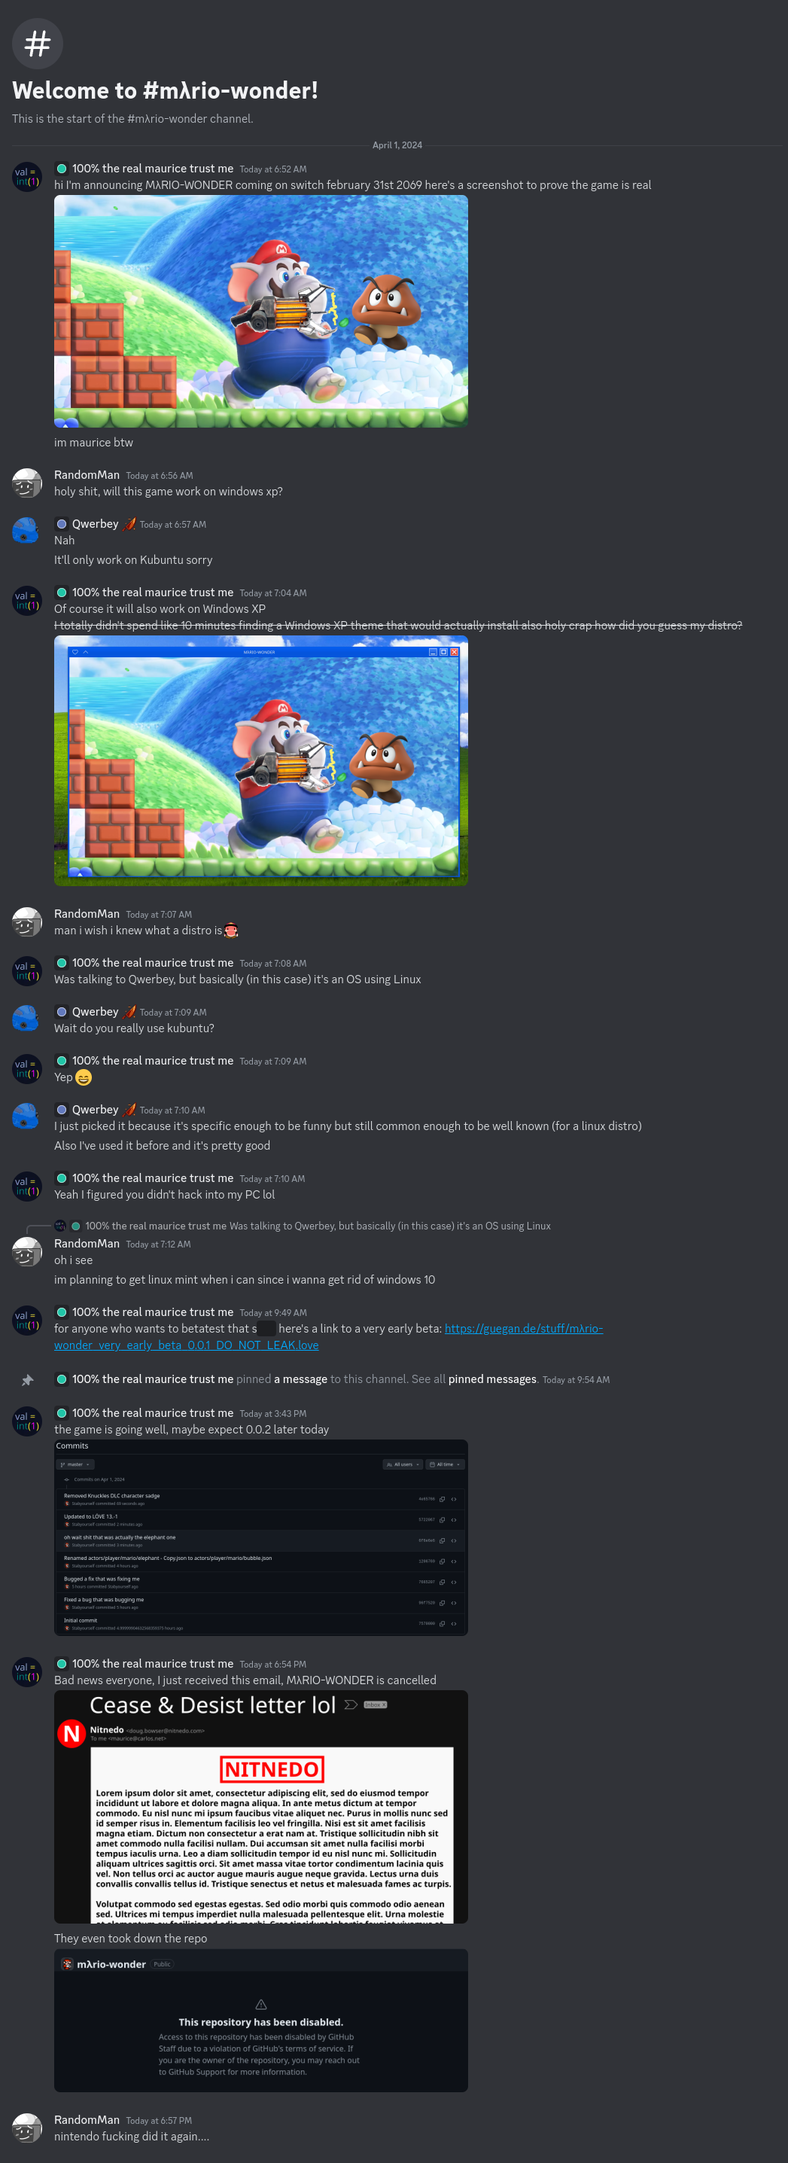
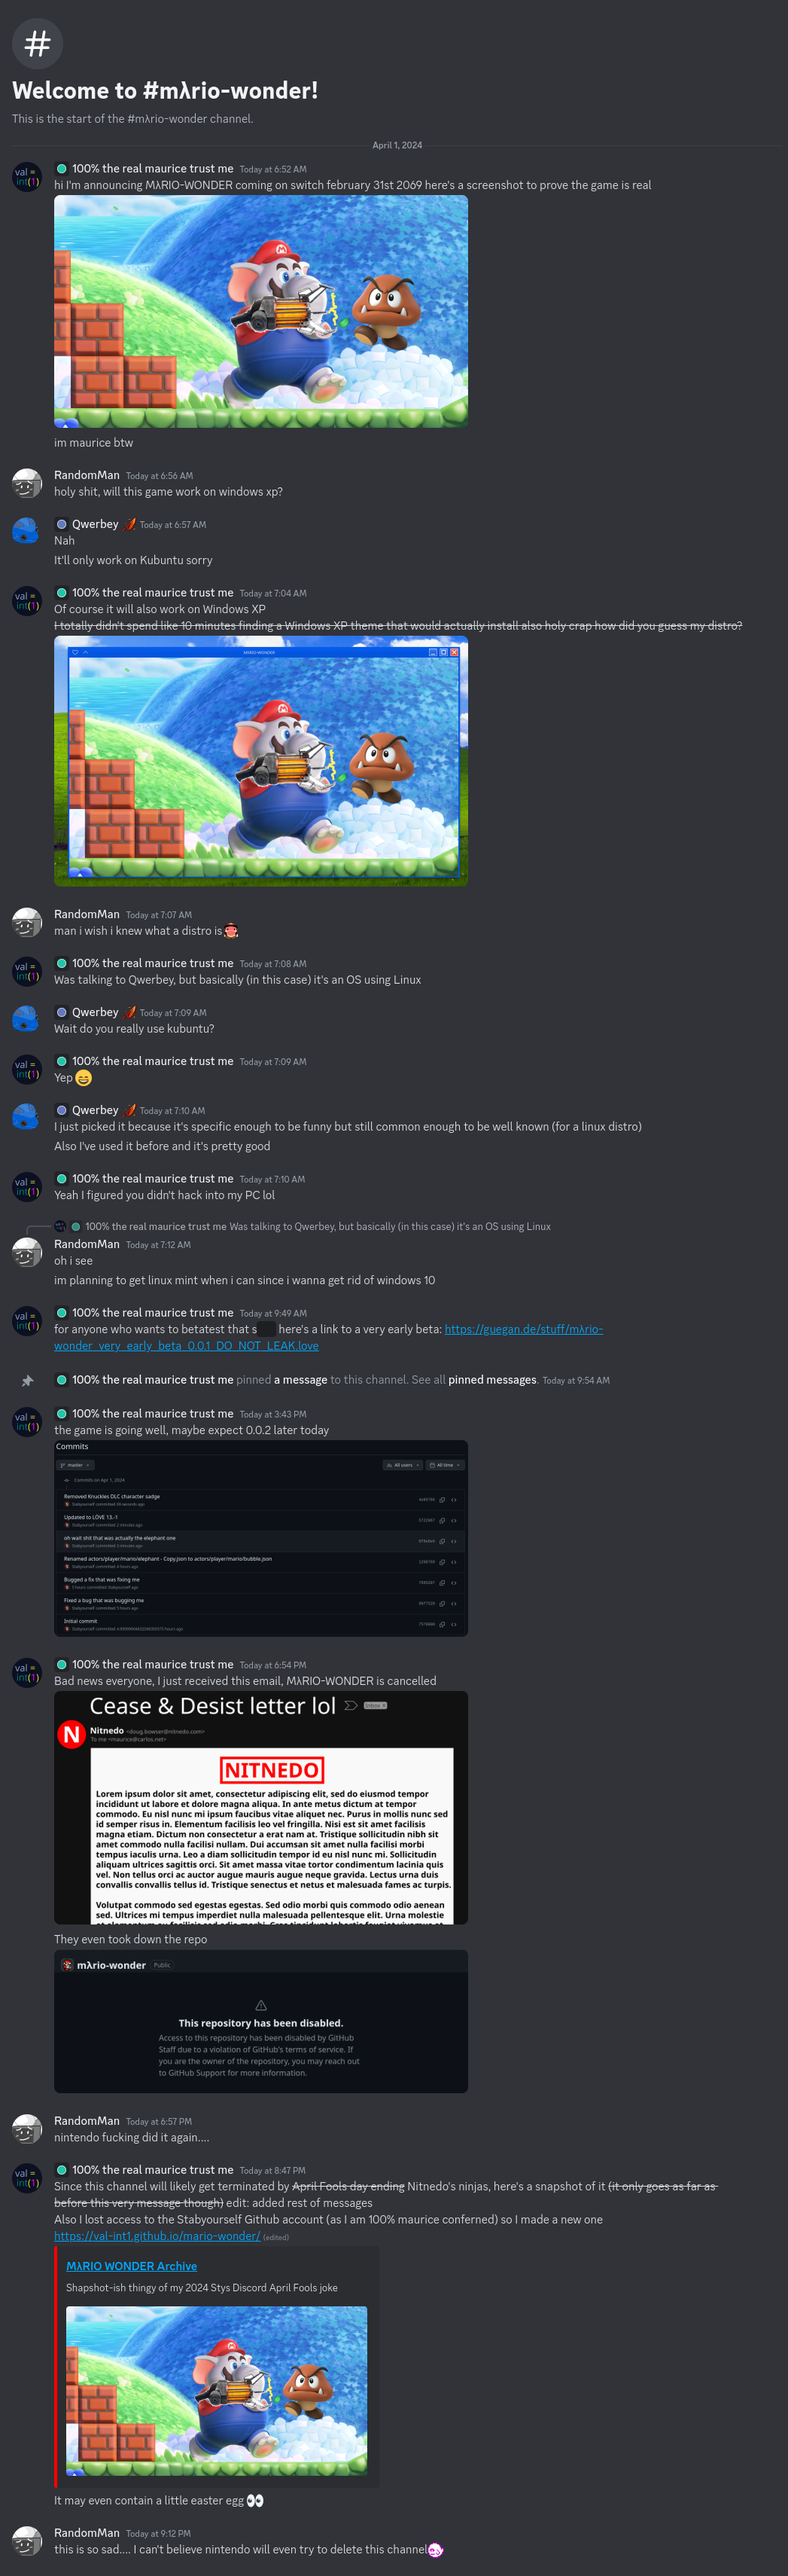
Added new messages

diff --git a/index.html b/index.html
@@ -4,11 +4,11 @@
 		<style>
 			html, body { margin: 0; }
 			body { background-color: #313338; }
-			div#wrapper { position: relative; width: fit-content; margin: 0 auto; }
+			div.wrapper { position: relative; width: fit-content; margin: 0 auto; }
 			img.add, span.linkbox { position: absolute; }
-			img#spoiler { left: 341px; top: 1754px; cursor: pointer; }
-			img#crabs { left: 340px; top: 146px; }
-			img#crabs.pointer { cursor: pointer; }
+			img.spoiler { left: 341px; top: 1754px; cursor: pointer; }
+			img.crabs { left: 340px; top: 146px; }
+			img.crabs.pointer, span.recursivelinkwow { cursor: pointer; }
 			span.attachment { left: 72px; width: 550px; }
 			.hidden { opacity: 0; }
 		</style>
@@ -20,13 +20,15 @@
 		<meta content="https://val-int1.github.io/mario-wonder/imgs/attachments/very_legit_screenshot.png" property="og:image" />
 		<meta name="twitter:card" content="summary_large_image">
 		<meta content="#FF0000" data-react-helmet="true" name="theme-color" />
+
+		<script src="script.js" defer></script>
 	</head>
 	<body>
-		<div id="wrapper">
+		<div class="wrapper">
 			<img id="base" src="imgs/base.png"></img>
 
-			<img class="add hidden" id="spoiler" src="imgs/spoiler.png"></img>
-			<img class="add hidden" id="crabs" src="imgs/crabs.png"></img>
+			<img class="add hidden spoiler" src="imgs/spoiler.png"></img>
+			<img class="add hidden crabs" src="imgs/crabs.png"></img>
 
 			<a href="mλrio-wonder_very_early_beta_0.0.1_DO_NOT_LEAK.love" target="_blank">
 				<span class="linkbox" style="left: 590px; top: 1757px; width: 213px; height: 17px;"></span>
@@ -35,6 +37,7 @@
 
 			<a href="imgs/attachments/very_legit_screenshot.png" target="_blank">
 				<span class="linkbox attachment" style="top: 259px; height: 309px;"></span>
+				<span class="linkbox" style="left: 88px; top: 3062px; width: 400px; height: 225px;"></span>
 			</a>
 
 			<a href="imgs/attachments/works_on_xp.png" target="_blank">
@@ -52,33 +55,9 @@
 			<a href="imgs/attachments/xz_repo_be_like.png" target="_blank">
 				<span class="linkbox attachment" style="top: 2588px; height: 191px;"></span>
 			</a>
+
+			<span class="linkbox recursivelinkwow" style="left: 71px; top: 2961px; width: 277px; height: 17px;"></span>
+			<span class="linkbox recursivelinkwow" style="left: 177px; top: 3001px; width: 177px; height: 16px;"></span>
 		</div>
-		<script>
-			function superSecretPasscode(e) {
-				if(e.key == passcode.substring(passcodeI, passcodeI + 1)) {
-					passcodeI ++;
-					if(passcodeI == passcode.length) {
-						crabs.classList.remove("hidden")
-						crabs.classList.add("pointer")
-						crabs.addEventListener("click", itsRavingTime)
-						document.body.removeEventListener("keydown", superSecretPasscode)
-					}
-				}
-			}
-
-			function itsRavingTime(e) { // and then they raved all over the place
-				window.open("https://www.youtube.com/watch?v=LDU_Txk06tM")
-				crabs.classList.remove("pointer")
-				crabs.removeEventListener("click", itsRavingTime)
-			}
-
-			const spoiler = document.getElementById("spoiler")
-			spoiler.addEventListener("click", () => { spoiler.classList.toggle("hidden") })
-
-			const crabs = document.getElementById("crabs")
-			const passcode = "ravetime"
-			let passcodeI = 0
-			document.body.addEventListener("keydown", superSecretPasscode)
-		</script>
 	</body>
 </html>

diff --git a/script.js b/script.js
@@ -1,0 +1,44 @@
+function superSecretPasscode(e) {
+	if(e.key == passcode.substring(passcodeI, passcodeI + 1)) {
+		passcodeI ++;
+		if(passcodeI == passcode.length) {
+			for(const crabs of document.getElementsByClassName("crabs")) {
+				crabs.classList.remove("hidden")
+				crabs.classList.add("pointer")
+				crabs.addEventListener("click", itsRavingTime)
+			}
+			document.body.removeEventListener("keydown", superSecretPasscode)
+		}
+	}
+}
+
+function itsRavingTime(e) { // and then they raved all over the place
+	window.open("https://www.youtube.com/watch?v=LDU_Txk06tM")
+	for(const crabs of document.getElementsByClassName("crabs")) {
+		crabs.classList.remove("pointer")
+		crabs.removeEventListener("click", itsRavingTime)
+	}
+}
+
+const wrapper = document.getElementsByClassName("wrapper")[0]
+const passcode = "ravetime"
+let passcodeI = 0
+
+function init(rootElem) {
+	const spoiler = rootElem.getElementsByClassName("spoiler")[0]
+	spoiler.addEventListener("click", () => { spoiler.classList.toggle("hidden") })
+
+	for(const recursivelinkwow of rootElem.getElementsByClassName("recursivelinkwow")) {
+		recursivelinkwow.addEventListener("click", () => {
+			let newWrapper = document.createElement("div")
+			newWrapper.classList.add("wrapper")
+			newWrapper.innerHTML = wrapper.innerHTML
+			init(newWrapper)
+			document.body.appendChild(newWrapper)
+			newWrapper.scrollIntoView({ behavior: "smooth" })
+		})
+	}
+}
+
+document.body.addEventListener("keydown", superSecretPasscode)
+init(wrapper)
